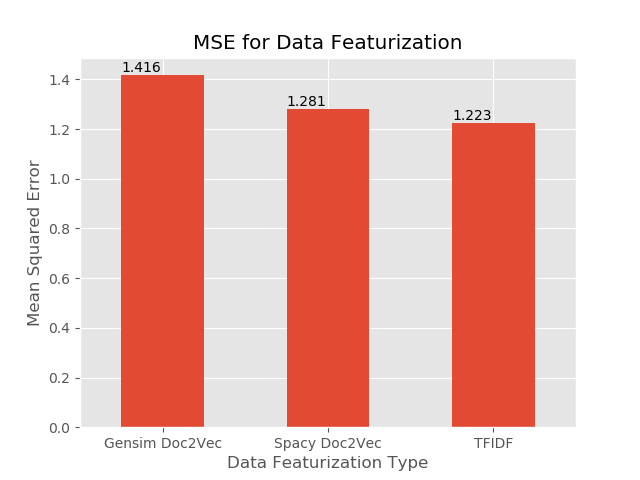
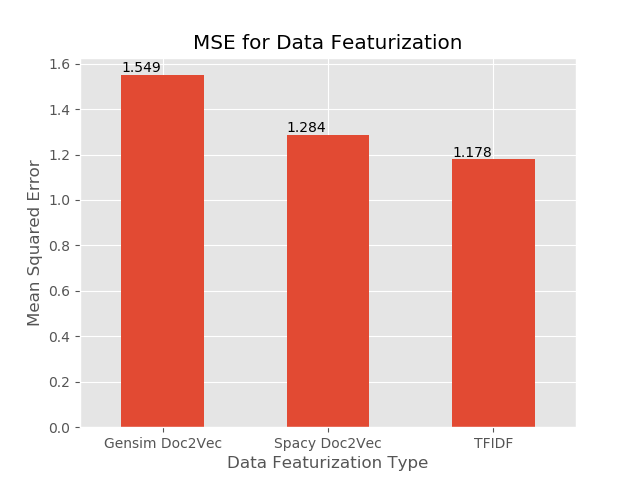
started finalizing readme before trying to translat

diff --git a/src/ModelCompare.py b/src/ModelCompare.py
@@ -7,6 +7,7 @@ from sklearn.feature_extraction.text import TfidfTransformer, CountVectorizer
 from sklearn.model_selection import train_test_split, GridSearchCV
 from sklearn.decomposition import PCA
 from sklearn.metrics import mean_squared_error, pairwise_distances
+from scipy.spatial.distance import cosine
 from sklearn.pipeline import Pipeline
 from TextCleaning import TextFormating
 from Doc2Vect import Doc2Vect
@@ -81,8 +82,8 @@ def Smote(X, y, random_state = 42, k_neighbors=3, plot = False):
 
 def Doc_Simularity(corpus, vector, index, n_simular = 1):
     cosine = pairwise_distances(vector, metric='cosine')[index]
-    indexes_most = cosine.argsort()[:-n_simular-1:-1]
-    indexes_least = cosine.argsort()[:n_simular+1]
+    indexes_most = cosine.argsort()[:-n_simular-1:-1][0]
+    indexes_least = cosine.argsort()[n_simular+1]
     return corpus[indexes_most], corpus[indexes_least]
 
 def ModelSplitting(X, y, test_size):
@@ -114,6 +115,19 @@ def bar_plot(Dict, y_label, title, save_file, legend=False):
       ax.annotate(str(i.get_height())[:5], (i.get_x(), i.get_height() * 1.01))
     plt.savefig(save_file)
 
+def Document_Save_to_file(filename, corpus, word_vec):
+      for index in np.random.randint(0,len(corpus),5):
+        most_simular, least_simular = Doc_Simularity(corpus, word_vec, index)
+        with open(filename, 'a') as f:
+          f.write("New Doc: ")
+          f.write('\n')
+          f.write(corpus[index])
+          f.write('\n')
+          f.write(most_simular)
+          f.write('\n')
+          f.write(least_simular)
+          f.write('\n')
+
 if __name__ == "__main__":
     y, corpus = Get_Corpus('data/Amz_book_review_short.parquet', plot=False)
     word_vec = Get_Corpus('data/Amz_book_review_short_vector.parquet', get_y=False, is_WordVec=True)
@@ -124,12 +138,8 @@ if __name__ == "__main__":
     X_train_vec_spacy, X_test_vec_spacy, y_train_vec_spacy, y_test_vec_spacy = train_test_split(word_vec, y, test_size=.2, random_state=42, stratify=y)
     X_train_vec_gensim, X_test_vec_gensim = Doc2Vect(X_train_tfidf, X_test_tfidf)()
     
-    # for index in range(10):
-    #   most_simular, least_simular = Doc_Simularity(corpus_short, word_vec_short, index)
-    #   with open('DocVec.txt', 'w') as f:
-    #     f.write(corpus_short[index])
-    #     f.write('\n'.join(most_simular))
-    #     f.write('\n'.join(least_simular))
+    Document_Save_to_file('DocVecspacy.txt', corpus, word_vec)
+    Document_Save_to_file('DocVecgensim.txt', X_train_tfidf, X_train_vec_gensim)
     
     text_vect = Pipeline([
                         ('vect', CountVectorizer(max_features=5000, max_df=.85, min_df=2)),
@@ -138,7 +148,7 @@ if __name__ == "__main__":
 
     X_train_tfidf = text_vect.fit_transform(X_train_tfidf).todense()
     X_test_tfidf = text_vect.transform(X_test_tfidf)
-    pca = PCA(n_components=70)
+    pca = PCA(n_components=100)
     theta = pca.fit_transform(X_train_tfidf)
     
     # fig, ax = plt.subplots(figsize=(8,6))
@@ -179,4 +189,4 @@ if __name__ == "__main__":
     modelTime = {'Data Featurization Type': ['Gensim Doc2Vec','Spacy Doc2Vec', 'TFIDF'], 'Time To Build Model' : [gensim_build_time, spacy_build_time, tfidf_build_time], 'Time to Predict' : [gensim_predict_time, spacy_predict_time, tfidf_predict_time]}
 
     bar_plot(modelScores, 'Mean Squared Error', 'MSE for Data Featurization', 'images/Model_MSE.png')
-    bar_plot(modelTime, 'Time (Seconds_', 'Model Time for Data Featurization', 'images/Model_Time.png')
+    bar_plot(modelTime, 'Time (Seconds)', 'Model Time for Data Featurization', 'images/Model_Time.png', legend=True)

diff --git a/src/TextCleaning.py b/src/TextCleaning.py
@@ -5,6 +5,7 @@ import spacy
 import codecs
 import unidecode
 import re
+from googletrans import Translator
 
 
 contraction_mapping = {"ain't": "is not", "aren't": "are not","can't": "cannot", 
@@ -58,11 +59,14 @@ class TextFormating(object):
     def __init__(self, X, nlp):
         self.X = X
         self.nlp = nlp
+        self.translator = Translator()
 
-    def __call__(self):
+    def __call__(self, vectorize = False):
         cleaned = [self._spacy_cleaner(i) for i in self.X]
-        return np.asarray(cleaned)
-        #return self.WordVect(cleaned)
+        if not vectorize:
+            return np.asarray(cleaned)
+        else:
+            return self.WordVect(cleaned)
 
     def _spacy_cleaner(self,Doc):
         try:
@@ -71,21 +75,24 @@ class TextFormating(object):
             decoded = unidecode.unidecode(Doc)
         apostrophe_handled = re.sub("’", "'", decoded)
         expanded = ' '.join([contraction_mapping[t] if t in contraction_mapping else t for t in apostrophe_handled.split(" ")])
-        parsed = self.nlp(expanded)
-        final_tokens = []
-        for t in parsed:
-            if t.is_punct or t.is_space or t.like_num or t.like_url or t.is_stop:
-                pass
-            else:
-                if t.lemma_ == '-PRON-':
-                    final_tokens.append(str(t))
+        if self.translator.detect(expanded).lang:
+            parsed = self.nlp(expanded)
+            final_tokens = []
+            for t in parsed:
+                if t.is_punct or t.is_space or t.like_num or t.like_url or t.is_stop:
+                    pass
                 else:
-                    sc_removed = re.sub("[^a-zA-Z]", '', str(t.lemma_))
-                    if len(sc_removed) > 1:
-                        final_tokens.append(sc_removed)
-        joined = ' '.join(final_tokens)
-        spell_corrected = re.sub(r'(.)\1+', r'\1\1', joined)
-        return spell_corrected
+                    if t.lemma_ == '-PRON-':
+                        final_tokens.append(str(t))
+                    else:
+                        sc_removed = re.sub("[^a-zA-Z]", '', str(t.lemma_))
+                        if len(sc_removed) > 1:
+                            final_tokens.append(sc_removed)
+            joined = ' '.join(final_tokens)
+            spell_corrected = re.sub(r'(.)\1+', r'\1\1', joined)
+            return spell_corrected
+        else:
+            pass
     
     def WordVect(self,X):
         doc = self.nlp(X)

diff --git a/src/ModelMaker.py b/src/ModelMaker.py
@@ -31,7 +31,7 @@ class ModelMaker(object):
             min_samples_leaf = param_grid['min_samples_leaf']
             min_samples_split = param_grid['min_samples_split']
             n_estimators = param_grid['n_estimators']
-            RandomForestReg = RandomForestRegressor(n_estimators=n_estimators, bootstrap=bootstrap, max_depth=max_depth, max_features=max_features, min_samples_split=min_samples_split, min_samples_leaf=min_samples_leaf, random_state=42).fit(self.X,self.y)
+            RandomForestReg = RandomForestRegressor(n_estimators=n_estimators, bootstrap=bootstrap, max_depth=max_depth, max_features=max_features, min_samples_split=min_samples_split, min_samples_leaf=min_samples_leaf, random_state=1).fit(self.X,self.y)
             return RandomForestReg, param_grid
 
     def Grad_Boost(self, param_grid, GridSearch = True):

diff --git a/src/ReadData.py b/src/ReadData.py
@@ -14,11 +14,11 @@ if __name__ == "__main__":
 
     mask = df['marketplace'] == 'US'
     df = df[mask].dropna()
-    df_thing, df_debug = train_test_split(df,test_size=.001, random_state=42, stratify=df['star_rating'])
+    df_thing, df_debug = train_test_split(df,test_size=.01, random_state=42, stratify=df['star_rating'])
 
     for index, i in enumerate(df_debug['review_body']):
         html = markdown(i)
         Text = ' '.join(BeautifulSoup(html).findAll(text=True))
-        corpus = TextFormating(Text, nlp)()
+        corpus = TextFormating(Text, nlp)(vectorize=False)
         df_debug['review_body'].iloc[index] = corpus
-    df_debug.to_parquet('data/Amz_book_review_short_vector.parquet')
+    df_debug.to_parquet('data/Amz_book_review_short.parquet')

diff --git a/src/Doc2Vect.py b/src/Doc2Vect.py
@@ -24,7 +24,7 @@ class Doc2Vect(object):
         doc_vec_test = np.vstack(doc_vec_test)
         return doc_vec_train, doc_vec_test
     def _make_model(self, embedding_size = 300):
-        model = Doc2Vec(self.documents, vector_size=embedding_size, window=5, min_count=1,epochs=800, seed=42)
+        model = Doc2Vec(self.documents, vector_size=embedding_size, window=15, min_count=5,epochs=800, seed=42)
         model.delete_temporary_training_data(keep_doctags_vectors=True, keep_inference=True)
         return model
     

diff --git a/readme.md b/readme.md
@@ -1,8 +1,8 @@
-# NLP Processing Models
+# NLP Processing Data Featurization
 
 ![alt_text](images/headImage.png)
 
-For this second capstone I decided to investigate how well the different data vectorization methods perform. In order to test this out I decided to use the Amazon reveiw data set provided by Amazon because the data included many different writen reveiws along side the star reveiws given by each users. This alowed me to work with scalable data and to test how well the methods were performing.
+For this second capstone I decided to investigate how well the different data featurization methods perform. In order to test this out I decided to use the Amazon reveiw dataset provided by Amazon because the data included many different writen reveiws along side the star reveiws given by each users. This alowed me to work with scalable data and to test how well the methods were performing.
 
 ## EDA
 
@@ -28,22 +28,90 @@ Even though this project is focused on strings, we still need to vectorize the d
 
 ### Bag-of-Words
 
-Bag-of-Words works by creating a matrix where the rows are the documents of the corpus and the columns are the vocabulary. After you build the Bag-of-Words model you tend to make it into a tfidf (Term Frequency Inverse Document frequency) matrix.
+Bag-of-Words works by creating a matrix where the rows are the documents of the corpus and the columns are the vocabulary. After you build the Bag-of-Words model you tend to make it into a tfidf (Term Frequency Inverse Document frequency) where the terms are the frequency a word apears in a document times how much information the word provides across the corpus.
 
 ### Doc2Vec
 
-Word2Vec and Doc2Vec are recent developments in data science and NLP and I hope to show its power in this project. Word2Vec is decomposing any given document into a vector of a defined size where the larger the vector the more accurate it is. The advantages is that the vector retains document context and simular words will be represented simularly. For example in Bag-of-Words, Love and Like would be to seperate values in the matrix with no relation to eachother, but with Word2Vec, Love and like would be two simular vectors with a high simularity.
+Word2Vec and Doc2Vec are recent developments in data science and NLP and I hope to show its power in this project. Word2Vec is decomposing any given word into a vector of a defined size where the larger the vector the more accurate it is. The advantages is that the vector retains document context and simular words will be represented simularly. For example in Bag-of-Words, Love and Like would be to seperate values in the matrix with no relation to eachother, but with Word2Vec, Love and like would be two simular vectors with a high simularity. On top of this mathmatical operations can be performed on the vectors such that <b>King</b> - <b>Man</b> + <b>Woman</b> should equal <b>Queen</b> on a well trained model.
 
 ![alt_text](images/Word2VecExample.png)
 
-In order to produce a word Vector an Autoencoder Neural Network is used where the inputs are feature vectors of the document and the output is a prediction for a word. Simular to Convolutional Neural Networks a window is moved over the document and selects the suronding words and trys to predict a word based on the context of the words around it. After training is done the weights become the Word Vectors.
+In order to produce a word Vector an Autoencoder Neural Network is used where the inputs are feature vectors of the document and the output is a prediction for a word. A window is moved over the document and selects the suronding words and trys to predict a word based on the context of the words around it. For example, if we give the model the sentance <b>"the cat sat on"</b> the model would read it in as the vectors <b>[1,0,0,0], [0,1,0,0], [0,0,1,0], [0,0,0,1]</b>. The window when then move over the inputs and choose a word to predict such as <b>sat</b>. The prediction would then be made off of the suronding words in this case <b>cat</b> and <b>on</b>. After traning, the weights that were found to work the best will be taken out of the autoencoder.
 
 ![alt_text](images/Doc2VecExample.png)
 
-Doc2Vec is very simular but it adds in the additional input of a document vector which as a result produces a vector for the entire Document and not just the words in the Document. (check with Taite about explanation)
+Doc2Vec is very simular but it adds in the additional input of a document vector. This then produces all the word vectors for the entire corpus as well as the document vector.
+
+A good comparison for Bag-of-words and Doc2Vec is that Bag-of-words is the frequensist aproach to nlp while Doc2Vec and Word2Vec are the Bayesin aproach.
+
+## Creating the Featurizations
+
+In order to study how well these different featurizations perform I first had to figure out what tools and methods to use.
+
+### Bag-of-words
+
+For the Bag-of-words I decided to just use sklearns prebuilt tools and use PCA to reduce the dementionality. I first used the count vectorizor and then the Tfidf Transformer and I only looked at the top 5000 words to reduce the size. After this I trained the model on the training data and then transformed the test data. After this I looked at what the best choice for the number of componets in PCA would be to speed up the calculation.
+
+![alt_text](images/Screeplot.png)
+
+From this scree plot it looks like 100 componets will work best which is a large reduction in dimentionality which should speed up the computation.
+
+### Doc2Vect
+
+Here I decided to use two different systems, spacy and gensim. Spacy is a strong package for nlp and comes with its own general Doc2Vec model which I used to transform all my documents to vectors of a length of 300. Gensim is a package that includes tools to build your own Doc2Vec model. I personaly decided to set the vector size to be 300, the window to look at the 15 words infront and behind the word, only consider words that apear more than 5 times and to train over 800 epochs (Thanks to [This](http://www.aclweb.org/anthology/W16-1609) paper on Doc2Vec). I used the training set to build this model and then transformed the traning and testing data.
+
+Because you can directly compare vectors here are 5 documents along with the most and least simular documents acording to Spacy:
+
+|Original Document|Most Simular|Least Simular|
+|-----------------|------------|-------------|
+|Not only has Brooke McEldowney captured the pure essence of 'cat'|In the book Ginger Pye Jerry is just some normal boy who is trying to figure out how to buy a puppy.|Excelente libro, te capta, te entretiene, aprendes, te ries|
+|Having worked with Brant for years and having had the pleasure of learning from him on a daily basis|This book delivers way more than one would expect. Let me explain that. First of all it is not that long of a book.|Excelente libro, te capta, te entretiene, aprendes, te ries|
+|How wonderful to be able to write something for kids to do that is so appealing to read about as well. Makes scientific ideas easily acccessible.|This book is an eye-opener for those of us who like to think of themselves as rational people.|Ik heb nooit veel van pendelen gehouden, maar samen met dit boek is het een hele mooie|
+|Prayer Rain is very inspirational.|Through this book you will experience the TRUE story of the Barrick family.  Their faith in God is truly inspirational.|WaWaWeeWa|
+|I really like the way this book is set up. I feel like it is gonna be a good tool next year in nursing school|I've never been good at keeping a journal, but this has kept me excited and intrigued to see what the next day holds.|Este autor en general lo recomiendo ampliamente. Todos sus cuentos tienen moralejas|
+
+and acording to my gensim:
+
+|Original Document|Most Simular|Least Simular|
+|-----------------|------------|-------------|
+|Good info.|or what this book actually is, it needs to be downsized and released in an affordable paperback printing.|Great!|
+|We ordered this through the publisher, Scholastic.  Since it was for a six-year old, I was disappointed|District Ranger Anna Pigeon of Rocky Mountains National Park is going to have wolves in the park;|CLASSIC!|
+Kids enjoyed doodle book.|I got this as a gift for my son. Iwould reconmend it anyone. It arrived on time and in god condition.|will be great for baby gift|
+|The content is accessible and well organized for quick acquisition of knowledge for teaching students, residents and colleagues not to mention for the reader as well. The references are either classic or outdated. A lot of work and time went into the preparation of this book. Are the authors and editors planning to revise and publish a more recent edition?|Review: FORGED (World of the Nightwalkers, Book 4) by Jacquelyn Frank Release Date: April 29, 2014 Reviewed by: Reading in Pajamas/ Donna Rated: 4 Stars Blog Post: [...]|CLASSIC!|
+|I'm very pleased with this little Bible. I like that I can easily carry it with me most anywhere. I wanted a SMALL Bible, and this is perfect.|So many travelers dream of visiting or regularly visit Paris!  We were last there for a week in 2013 and I used that year's edition of the Lonely Planet Paris guide|CLASSIC!|
+
+As you can see there is some understadable realationship between each of these documents for what spacy produces with non-english reviews always beeing the most dissimular. With Gensim however the results seem a bit more random which I belive comes from how small the training set was (less than 2000 documents) which makes it a weaker model at the moment. But since I can train the gensim model I think that increasing the amount of data it trains on would inprove its results.
 
 ## Performance
 
-In order to test the performance of these models I decided to use the Random Forest Regressor and find the Mean Square Error for Bag-of-Words and Doc2Vec as well as the computational time in order to find which data vectorization method works the best
+In order to test the performance of these models I decided to use the Random Forest Regressor and find the Mean Square Error for Bag-of-Words and Doc2Vec as well as the computational time in order to find which data vectorization method works the best. By using gridsearch to tune the hyperparameters for each data factorization. My results are in the table bellow:
+
+|Factorization|Bootstrap|Max Depth|Max Features|Min Samples Leaf|Min Samples Split|Number of Estimators|
+|-------------|---------|---------|------------|----------------|-----------------|--------------------|
+|Tfidf|False|None|sqrt|1|3|80|
+|Spacy|False|None|sqrt|1|2|90|
+|Gensim|False|None|sqrt|1|3|80|
+
+(parameter Explanation)
+
+After training the predicting off of these modes I found the following results
+
+![alt_test](images/Model_MSE.png)
+
+As you can see Tfidif had the lowest MSE but it is only slightly different than spacy while gensim performed the words. But this is only one metric so now lets look at the time
+
+![alt_test](images/Model_Time.png)
+
+From this you can see that spacy had the fastest build time and its predict time is tied with gensim. As a point of comparison rember that both of the Doc2Vec methods produce vecors of length 300 while tfidf is only 100 items long.
+
+If we look at both of these metrics, I would choose to use spacy because it performs only slightly worse than Tfidf but it trains the model the fastest and is tied for predict time. I belive that if the data was scalled up further or no pca being implimented spacy would massivly out perform Tfidf on the time while producing comparable MSE.
+
+With Gensim I think that it is performing the worst because I am building my own model which means that it only has so many data points to train on. Spacy performs well because it is a model that has already been built on a large amount of data while gensim has only been built on less than 2000 points of data. If I increased the size of my data set I belive that gensim would start to out perform spacy and Tfidf when looking at MSE and run in a simular amount of time to both spacy and Tfidf.
 
 ## Conclusion
+
+In conclusion, it seems that in smaller datasets Tfidf performs the best but that Doc2Vec will inprove with larger datasets and more traning time.
+
+## Future Direction
+
+I plan on taking this dataset and the tools that I have learned to start applying Doc2Vec into deep learning in order to build much stronger models on larger data.
